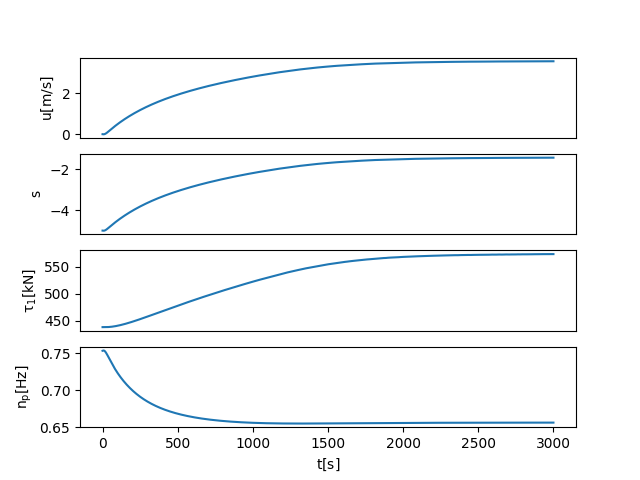
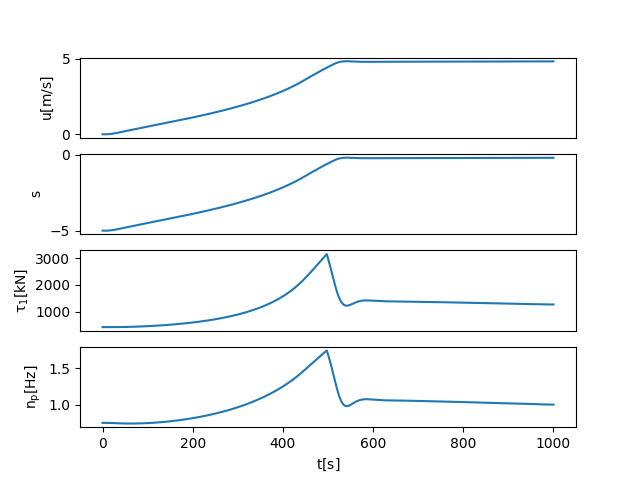
deleted init files

diff --git a/src/surge-control-project/modules/simulation.py b/src/surge-control-project/modules/simulation.py
@@ -13,7 +13,7 @@ def simulation():
 
         #simulation parameters
         dt = 0.1 # p3d file
-        t_end = 3000
+        t_end = 1000
         steps = int(t_end/dt)
 
         # initialize 

diff --git a/src/surge-control-project/modules/controllers/SurgeController/__init__.py b/src/surge-control-project/modules/controllers/SurgeController/__init__.py
@@ -1,9 +1,9 @@
 m = 40415
 X_added_mass = -3375
-#kphi = 30
-kphi = 1
+kphi = 30
+#kphi = 1
 phi = 0.02
 x0 = 0
 xd = 5
-#K = 58
-K = 1
+K = 58
+#K = 1

diff --git a/src/surge-control-project/README.md b/src/surge-control-project/README.md
@@ -3,7 +3,7 @@ Integrating a high fidelity ship maneuvering simulator with <i>ROS<i>: a path-fo
 </h1>
 
 <p align="center">
-    Undergraduate Thesis for the Mechatronics Engineering degree in the University of São Paulo (USP)
+    Undergraduate Thesis for the Mechatronics Engineering degree from the University of São Paulo (USP)
 </p>
 
 ## Features
